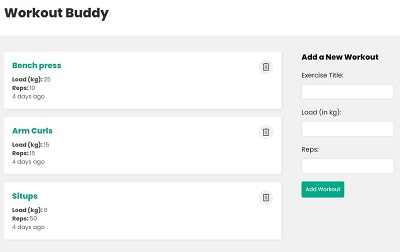
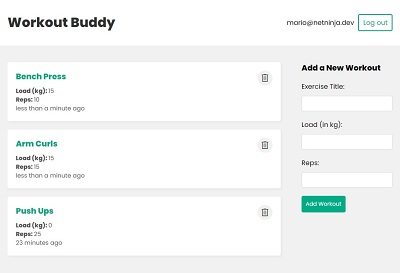
update README.md

diff --git a/README.md b/README.md
@@ -1,6 +1,6 @@
 # Workout Buddy
 
-Workout Buddy helps you tracking all the exercises to make your life easier and helthier. If you'd like to check it out, you can access it by [clicking here](https://mern-workout.netlify.app)
+Workout Buddy helps you tracking all the exercises to make your life easier and helthier. It has user authentication by using JWT and password encryption by using bcrypt. If you'd like to check it out, you can access it by [clicking here](https://mern-workout.netlify.app)
 
 ![Screenshot of Workout Tracker](./screenshot.jpg)
 
@@ -18,6 +18,9 @@ Workout Buddy helps you tracking all the exercises to make your life easier and 
 - Node.js / Express
 - MongoDB
 - mongoose
+- bcrypt
+- jsonwebtoken
+- validator
 
 # Installation
 
